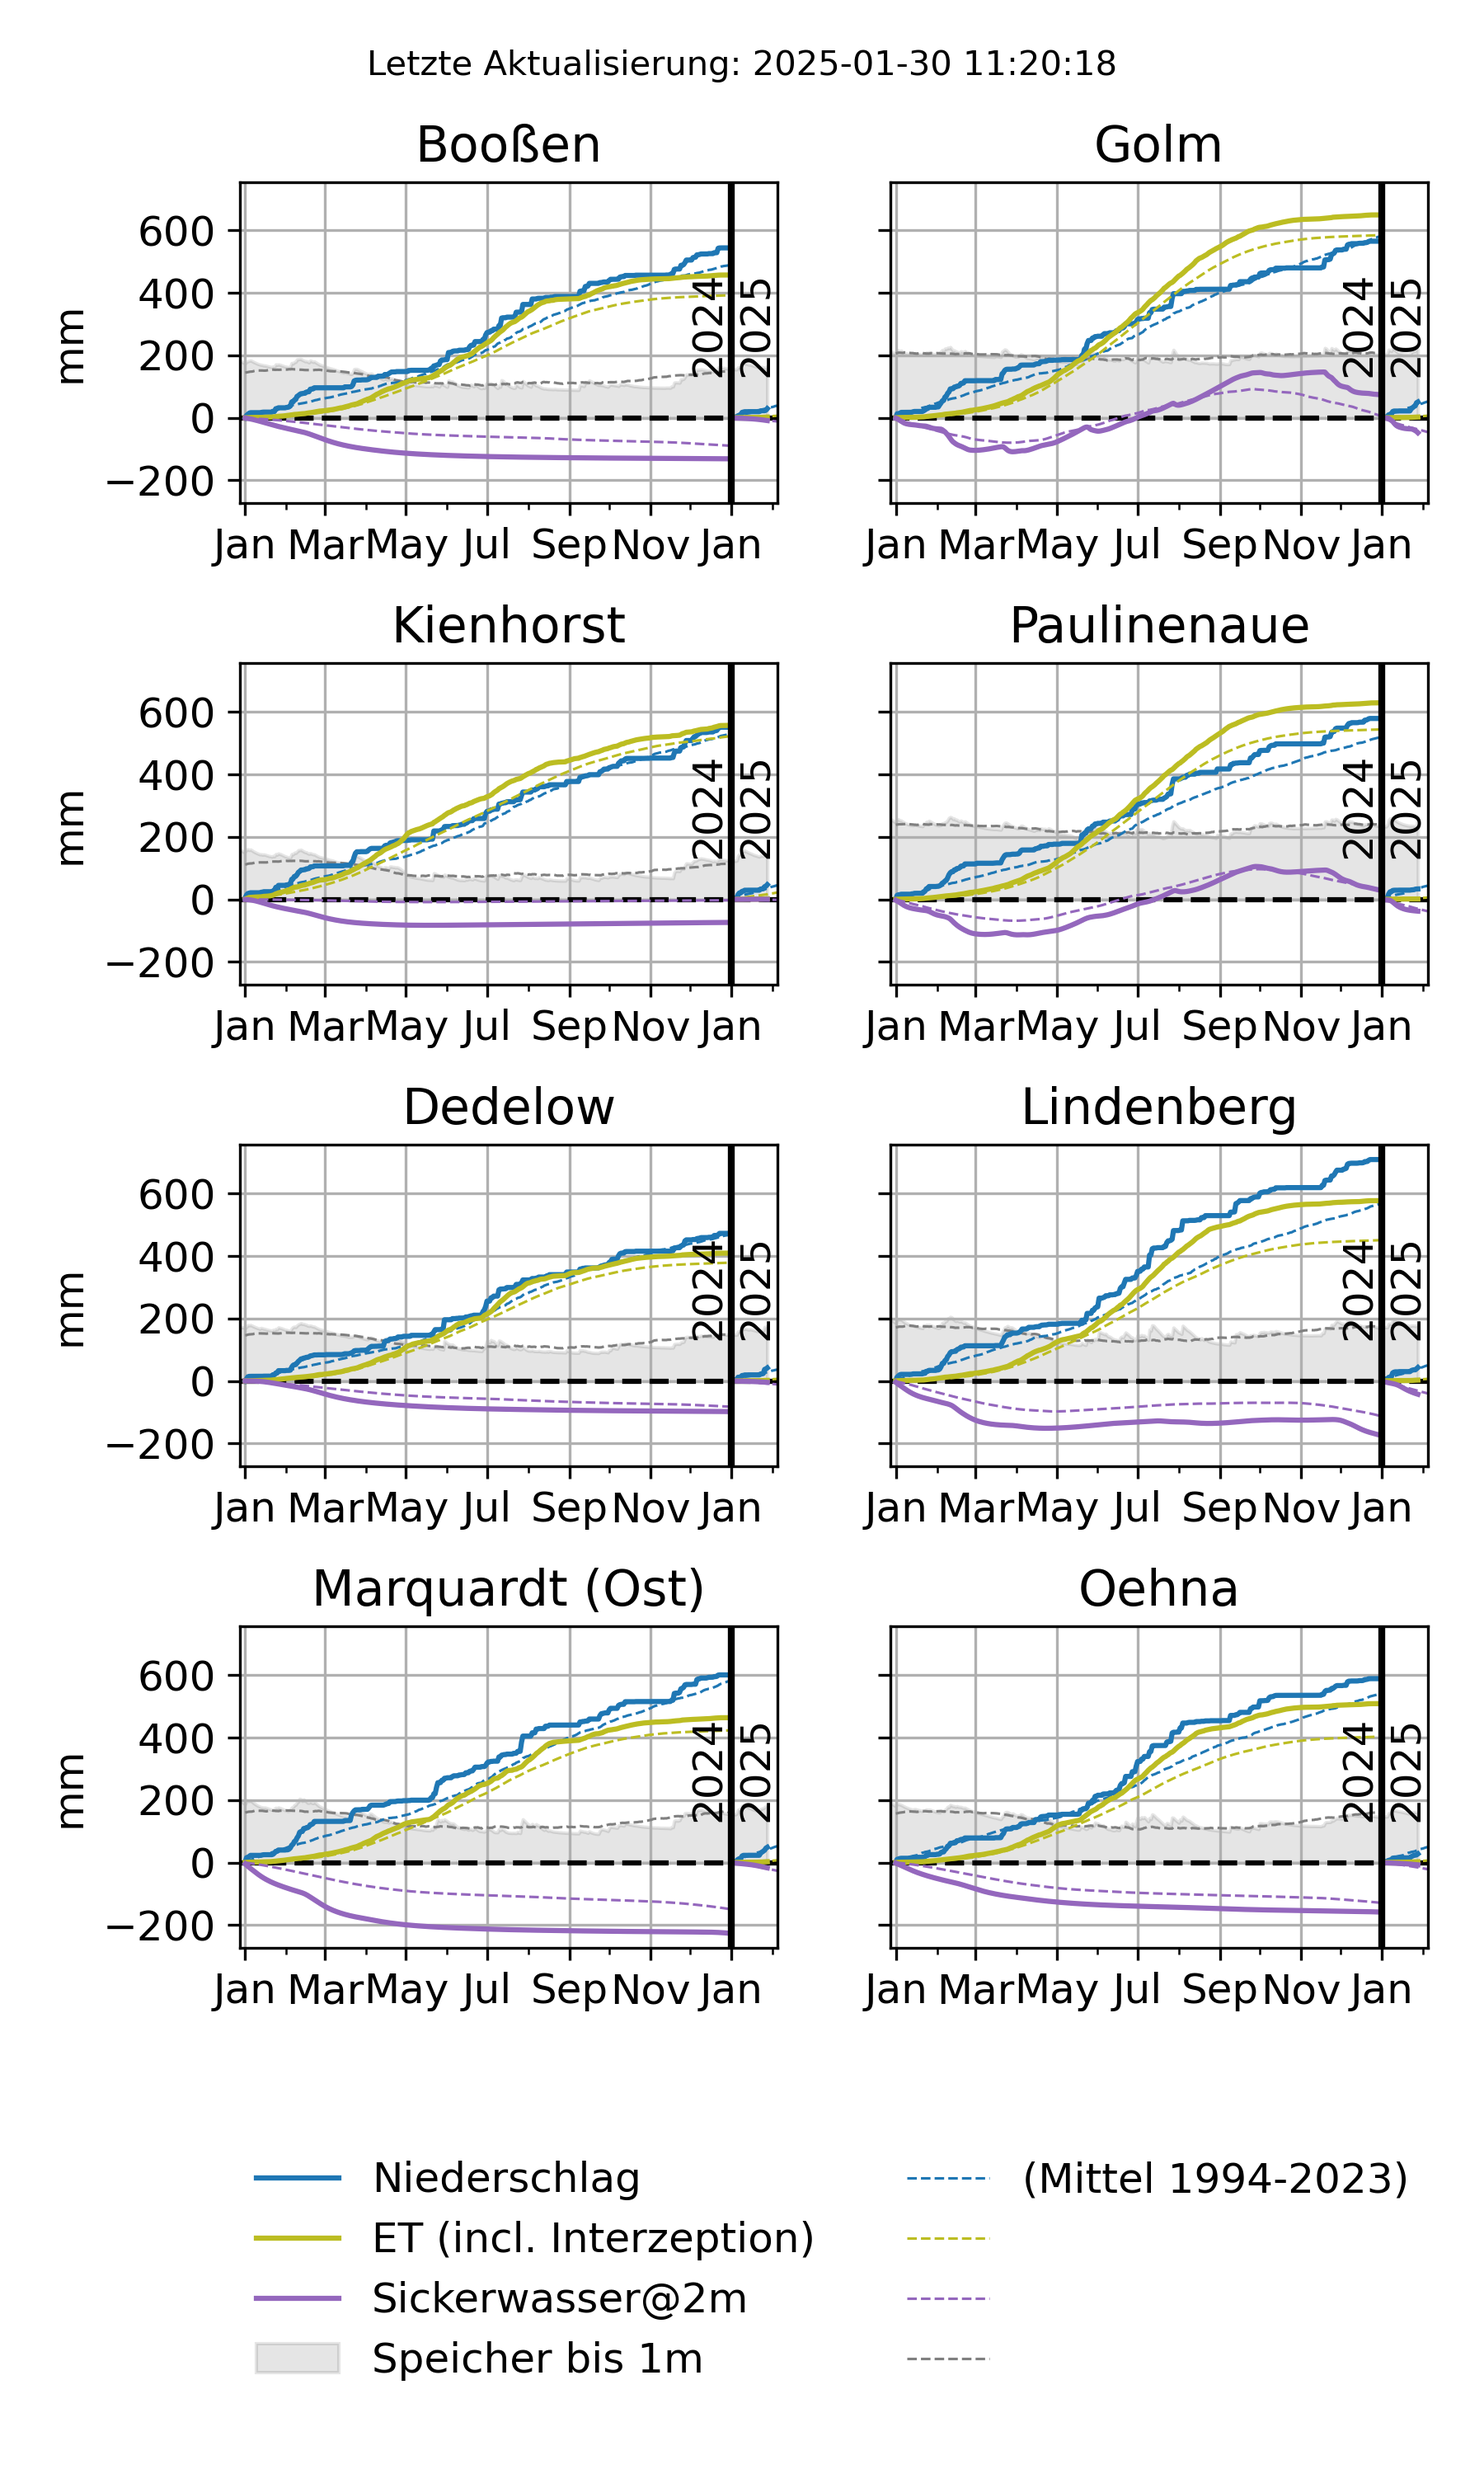
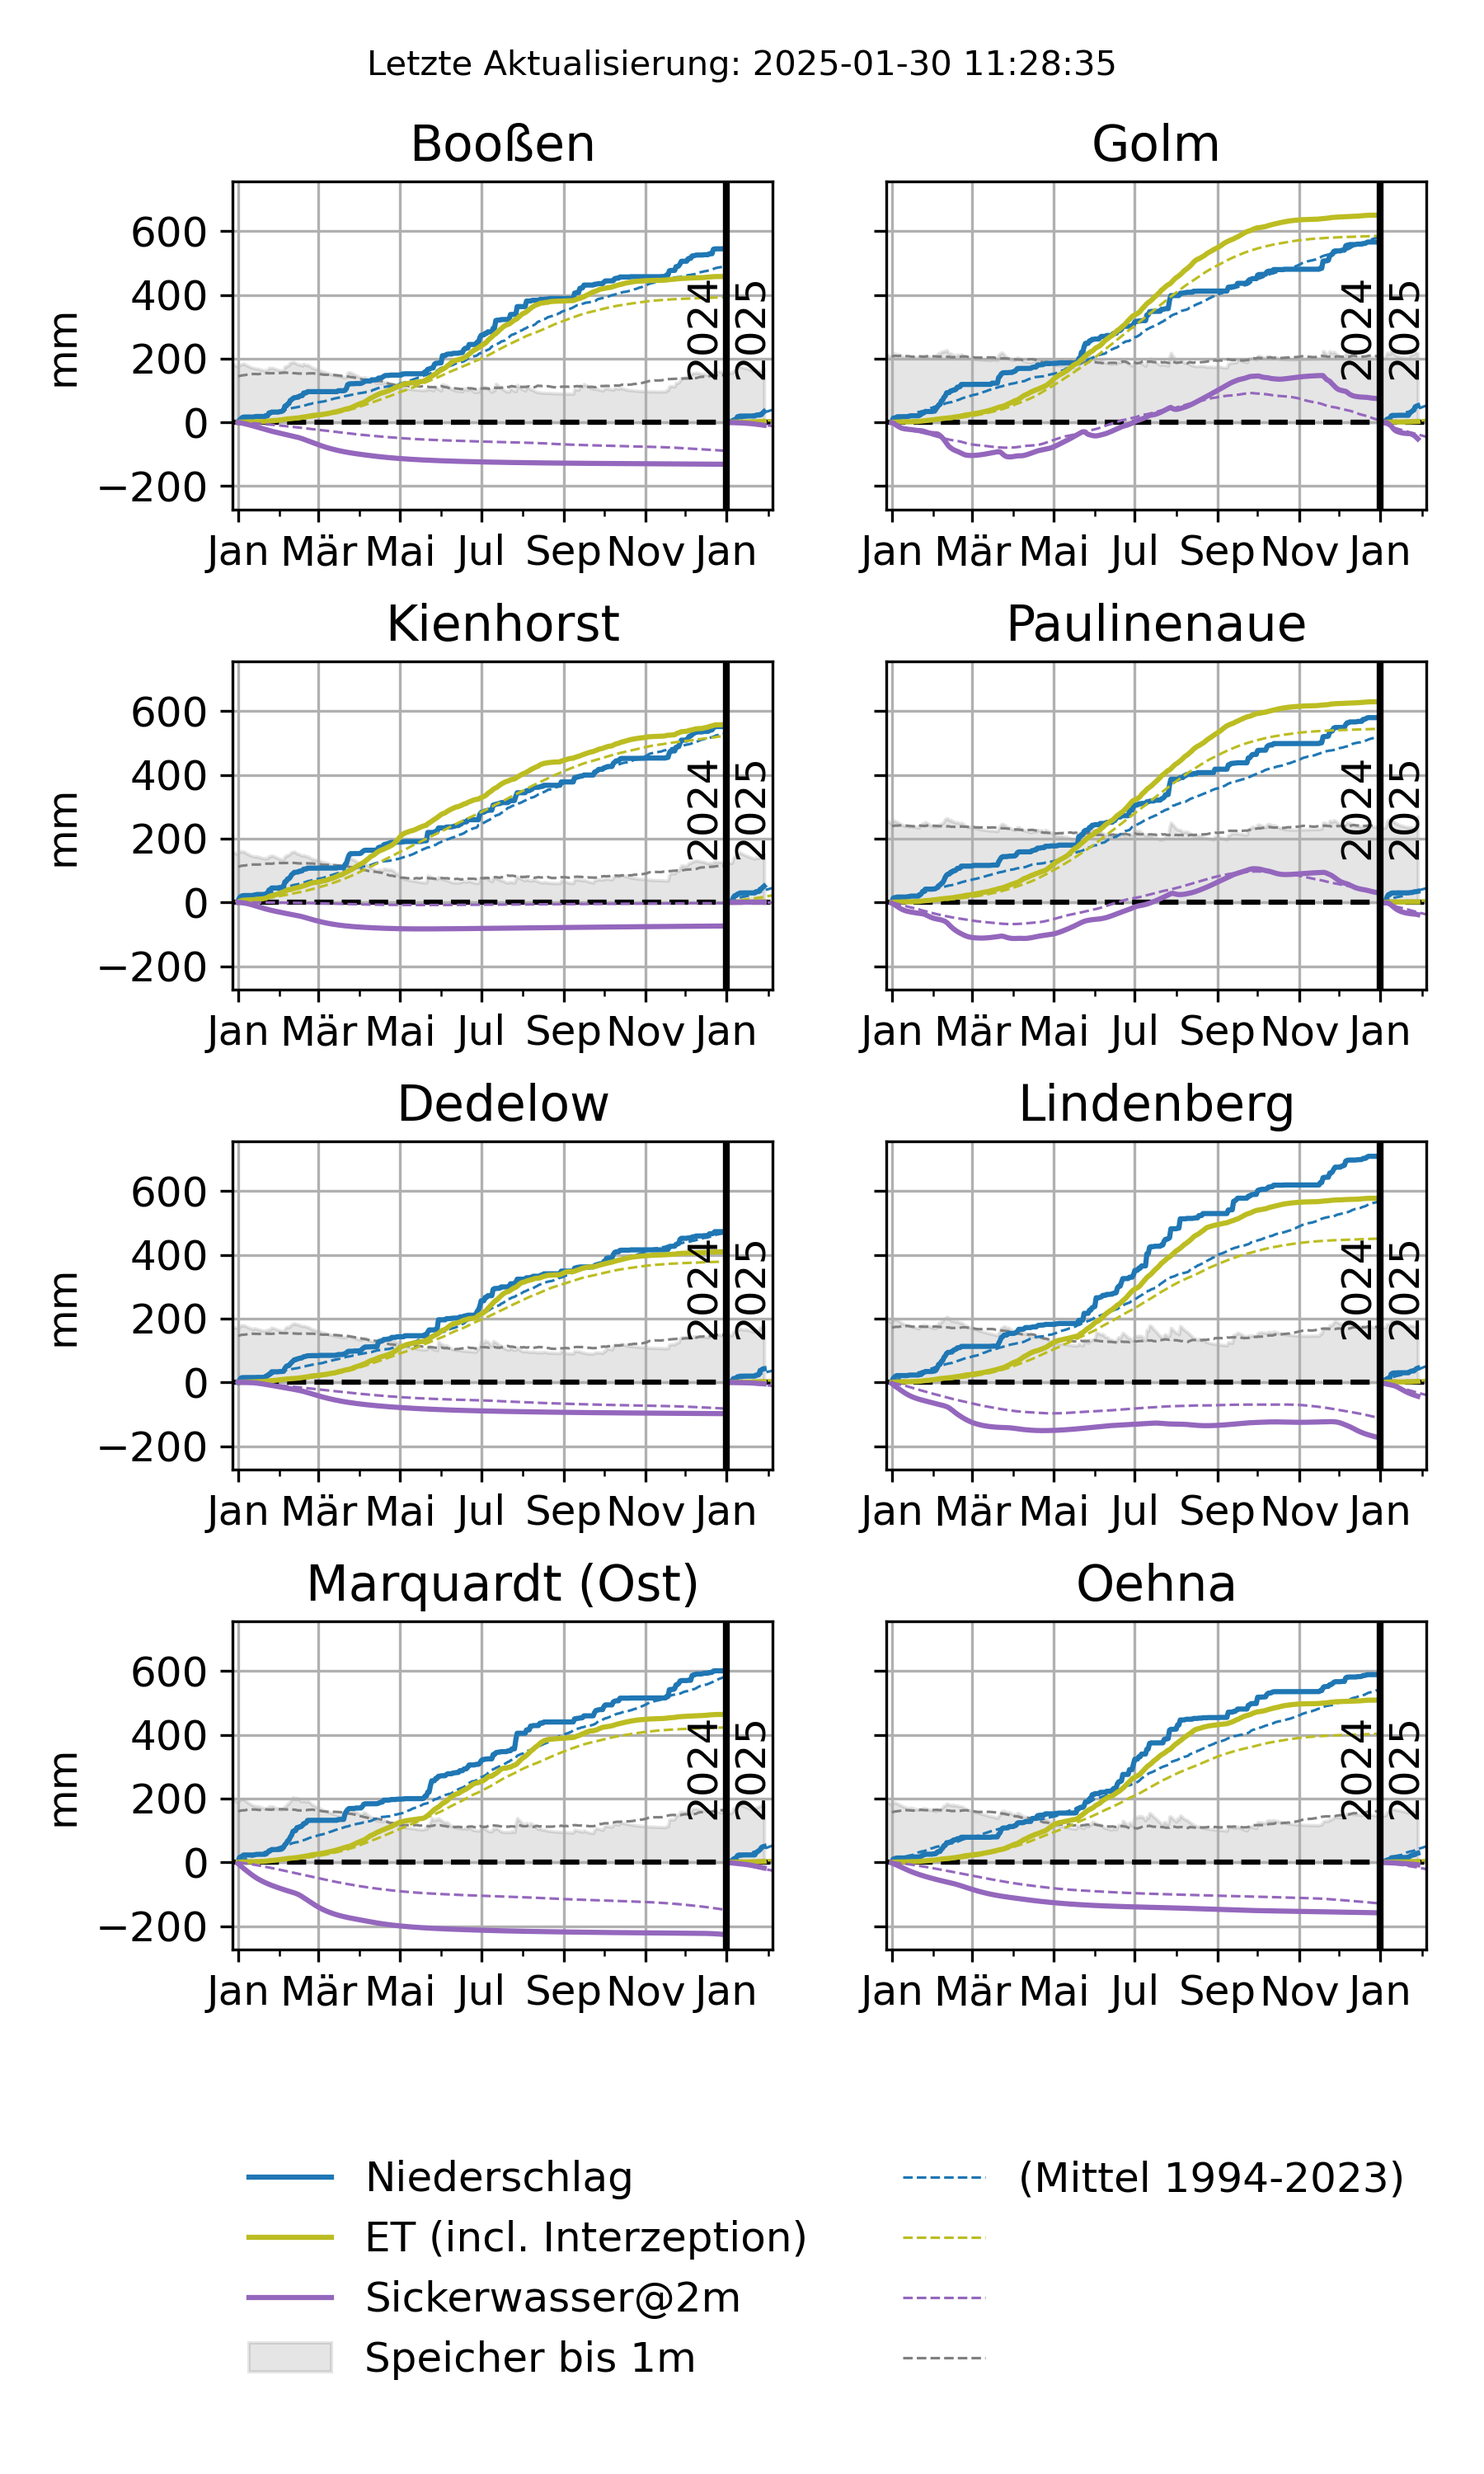
update monitor

diff --git a/aktuelles/index.md b/aktuelles/index.md
@@ -5,6 +5,10 @@ title: COSMOS-BB
 
 # Aktuelles
 
+### 2025-01-30
+
+Die Datenlücke für den Standort Oehna (im Wstl. Dezember 2024) ist nun geschlossen.
+
 ### 2025-01-27
 
 Die Monitorseite wird nun wieder routinemäßig aktualisiert. Wir arbeiten weiter an der Schließung der entstandenen Datenlücke für den Standort Oehna. Zu diesem Zweck müssen zunächst die Daten von der SD-Karte der Sonde lokal ausgelesen werden.
